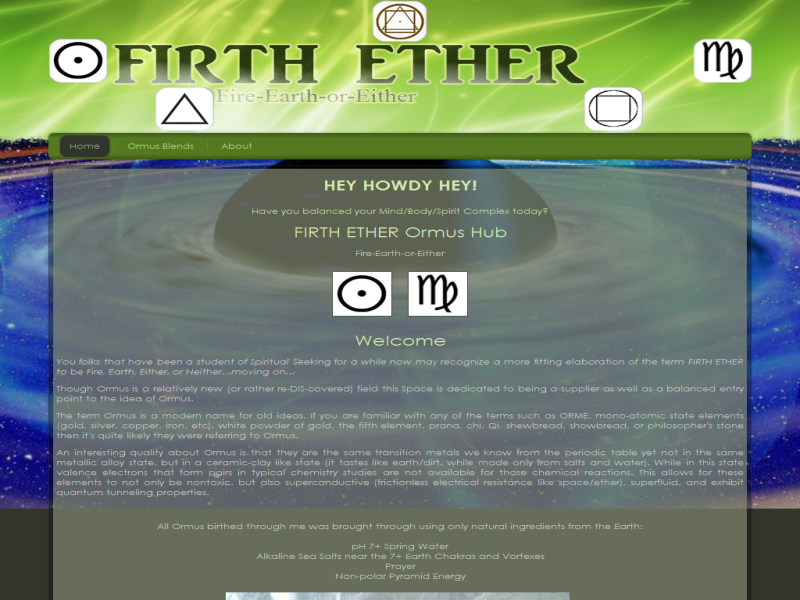
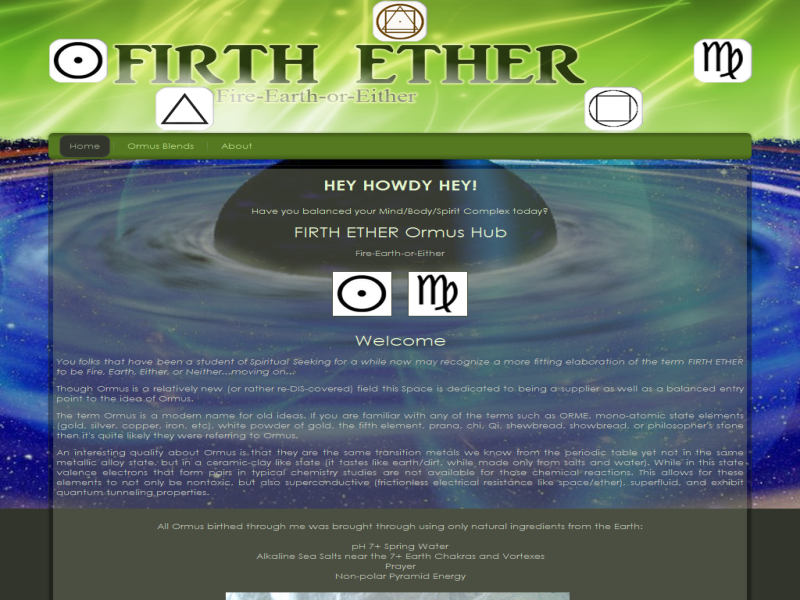
Consent sheet transparency

diff --git a/style.css b/style.css
@@ -103,26 +103,26 @@ ul.art-vmenu a
 {
    font-family: 'Century Gothic', Arial, 'Arial Unicode MS', Helvetica, Sans-Serif;
    text-decoration: none;
-   color: #D2EAAE;
+   color: #E2F1CB;
 }
 
 .art-postcontent a:visited, .art-postcontent a.visited
 {
    font-family: 'Century Gothic', Arial, 'Arial Unicode MS', Helvetica, Sans-Serif;
    text-decoration: none;
-   color: #CDD4C4;
+   color: #DFE3D9;
 }
 
 .art-postcontent  a:hover, .art-postcontent a.hover
 {
    font-family: 'Century Gothic', Arial, 'Arial Unicode MS', Helvetica, Sans-Serif;
    text-decoration: none;
-   color: #EFF8E3;
+   color: #FDFEFB;
 }
 
 .art-postcontent h1
 {
-   color: #D2EAAE;
+   color: #E2F1CB;
    font-size: 32px;
    font-family: 'Century Gothic', Arial, 'Arial Unicode MS', Helvetica, Sans-Serif;
 }
@@ -141,7 +141,7 @@ ul.art-vmenu a
 
 .art-postcontent h2
 {
-   color: #D2EAAE;
+   color: #E2F1CB;
    font-size: 24px;
    font-family: 'Century Gothic', Arial, 'Arial Unicode MS', Helvetica, Sans-Serif;
 }
@@ -160,7 +160,7 @@ ul.art-vmenu a
 
 .art-postcontent h3
 {
-   color: #CDD4C4;
+   color: #DFE3D9;
    font-size: 16px;
    font-family: 'Century Gothic', Arial, 'Arial Unicode MS', Helvetica, Sans-Serif;
 }
@@ -179,7 +179,7 @@ ul.art-vmenu a
 
 .art-postcontent h4
 {
-   color: #D4EBB2;
+   color: #CDE7A6;
    font-size: 16px;
    font-family: 'Century Gothic', Arial, 'Arial Unicode MS', Helvetica, Sans-Serif;
 }
@@ -198,7 +198,7 @@ ul.art-vmenu a
 
 .art-postcontent h5
 {
-   color: #D4EBB2;
+   color: #CDE7A6;
    font-size: 13px;
    font-family: 'Century Gothic', Arial, 'Arial Unicode MS', Helvetica, Sans-Serif;
 }
@@ -217,7 +217,7 @@ ul.art-vmenu a
 
 .art-postcontent h6
 {
-   color: #1F2C0C;
+   color: #C7E49A;
    font-size: 11px;
    font-family: 'Century Gothic', Arial, 'Arial Unicode MS', Helvetica, Sans-Serif;
 }
@@ -281,7 +281,7 @@ body
    padding: 0;
    margin:0;
    min-width: 900px;
-   color: #D0D3CA;
+   color: #C9CDC1;
 }
 
 .art-header:after, 
@@ -886,7 +886,7 @@ div.art-block img
 .art-blockheader .t a:visited, 
 .art-blockheader .t a:hover
 {
-   color: #C8CFBE;
+   color: #BEC7B3;
    font-size: 14px;
    font-family: 'Century Gothic', Arial, 'Arial Unicode MS', Helvetica, Sans-Serif;
    margin: 0 10px;
@@ -896,7 +896,7 @@ div.art-block img
 {
    padding:3px;
    margin:0 auto;
-   color: #D4EBB2;
+   color: #CDE7A6;
    font-size: 13px;
    font-family: 'Century Gothic', Arial, 'Arial Unicode MS', Helvetica, Sans-Serif;
 }
@@ -907,27 +907,27 @@ div.art-block img
 .art-blockcontent a:visited,
 .art-blockcontent a:hover
 {
-   color: #D4EBB2;
+   color: #CDE7A6;
    font-size: 13px;
    font-family: 'Century Gothic', Arial, 'Arial Unicode MS', Helvetica, Sans-Serif;
 }
 
 .art-blockcontent a, .art-blockcontent a:link
 {
-   color: #D2EAAE;
+   color: #E2F1CB;
    font-family: 'Century Gothic', Arial, 'Arial Unicode MS', Helvetica, Sans-Serif;
 }
 
 .art-blockcontent a:visited, .art-blockcontent a.visited
 {
-   color: #EEF0EA;
+   color: #FDFDFC;
    font-family: 'Century Gothic', Arial, 'Arial Unicode MS', Helvetica, Sans-Serif;
    text-decoration: none;
 }
 
 .art-blockcontent a:hover, .art-blockcontent a.hover
 {
-   color: #E2F1CB;
+   color: #EFF8E3;
    font-family: 'Century Gothic', Arial, 'Arial Unicode MS', Helvetica, Sans-Serif;
    text-decoration: none;
 }
@@ -954,7 +954,7 @@ div.art-block img
    font-size: 13px;
    font-family: 'Century Gothic', Arial, 'Arial Unicode MS', Helvetica, Sans-Serif;
    line-height: 125%;
-   color: #C9CDC1;
+   color: #BFC3B6;
 }
 
 .art-block ul>li, .art-block ol
@@ -1217,7 +1217,7 @@ label.art-checkbox
    font-style: normal;
    line-height: 16px;
    display: inline-block;
-   color: #D4EBB2 !important;
+   color: #CDE7A6 !important;
 }
 
 .art-checkbox>input[type="checkbox"]
@@ -1271,7 +1271,7 @@ label.art-radiobutton
    font-style: normal;
    line-height: 12px;
    display: inline-block;
-   color: #D4EBB2 !important;
+   color: #CDE7A6 !important;
 }
 
 .art-radiobutton>input[type="radio"]
@@ -1315,7 +1315,7 @@ label.art-radiobutton.hovered:before
 
 .art-comments h2
 {
-   color: #D0D3CA;
+   color: #C9CDC1;
 }
 
 .art-comment-inner
@@ -1348,7 +1348,7 @@ label.art-radiobutton.hovered:before
 .art-comment-content
 {
    padding:10px 0;
-   color: #D0D3CA;
+   color: #C9CDC1;
    font-family: 'Century Gothic', Arial, 'Arial Unicode MS', Helvetica, Sans-Serif;
 }
 
@@ -1364,7 +1364,7 @@ label.art-radiobutton.hovered:before
 
 .art-comment-header
 {
-   color: #D0D3CA;
+   color: #C9CDC1;
    font-family: 'Century Gothic', Arial, 'Arial Unicode MS', Helvetica, Sans-Serif;
    line-height: 100%;
 }
@@ -1383,19 +1383,19 @@ label.art-radiobutton.hovered:before
 .art-comment-header a, .art-comment-header a:link
 {
    font-family: 'Century Gothic', Arial, 'Arial Unicode MS', Helvetica, Sans-Serif;
-   color: #E6F3D3;
+   color: #E2F1CB;
 }
 
 .art-comment-header a:visited, .art-comment-header a.visited
 {
    font-family: 'Century Gothic', Arial, 'Arial Unicode MS', Helvetica, Sans-Serif;
-   color: #E4E7DF;
+   color: #DFE3D9;
 }
 
 .art-comment-header a:hover,  .art-comment-header a.hovered
 {
    font-family: 'Century Gothic', Arial, 'Arial Unicode MS', Helvetica, Sans-Serif;
-   color: #F6FBEF;
+   color: #F4FAEB;
 }
 
 .art-comment-content a, 
@@ -1411,19 +1411,19 @@ label.art-radiobutton.hovered:before
 .art-comment-content a, .art-comment-content a:link
 {
    font-family: 'Century Gothic', Arial, 'Arial Unicode MS', Helvetica, Sans-Serif;
-   color: #E6F3D3;
+   color: #E2F1CB;
 }
 
 .art-comment-content a:visited, .art-comment-content a.visited
 {
    font-family: 'Century Gothic', Arial, 'Arial Unicode MS', Helvetica, Sans-Serif;
-   color: #E4E7DF;
+   color: #DFE3D9;
 }
 
 .art-comment-content a:hover,  .art-comment-content a.hovered
 {
    font-family: 'Century Gothic', Arial, 'Arial Unicode MS', Helvetica, Sans-Serif;
-   color: #F6FBEF;
+   color: #F4FAEB;
 }
 
 .art-pager
@@ -1560,13 +1560,13 @@ label.art-radiobutton.hovered:before
    padding:10px;
    margin:0 auto;
    margin-top:25px;
-   color: #D0D3CA;
+   color: #C9CDC1;
 }
 
 .art-commentsform h2{
    padding-bottom:10px;
    margin: 0;
-   color: #D0D3CA;
+   color: #C9CDC1;
 }
 
 .art-commentsform label {
@@ -1589,7 +1589,7 @@ label.art-radiobutton.hovered:before
 .art-post
 {
    background: #899178;
-   background: rgba(137, 145, 120, 0.67);
+   background: rgba(137, 145, 120, 0.4);
    -webkit-border-radius:6px;
    -moz-border-radius:6px;
    border-radius:6px;
@@ -1701,7 +1701,7 @@ pre
 
 .art-postheader
 {
-   color: #E4F2CF;
+   color: #E2F1CB;
    margin: 10px 0 0;
    font-size: 24px;
    font-family: 'Century Gothic', Arial, 'Arial Unicode MS', Helvetica, Sans-Serif;
@@ -1723,7 +1723,7 @@ pre
    font-family: 'Century Gothic', Arial, 'Arial Unicode MS', Helvetica, Sans-Serif;
    text-decoration: none;
    text-align: left;
-   color: #DDEFC3;
+   color: #D9EDBB;
 }
 
 .art-postheader a:visited, .art-postheader a.visited
@@ -1731,7 +1731,7 @@ pre
    font-family: 'Century Gothic', Arial, 'Arial Unicode MS', Helvetica, Sans-Serif;
    text-decoration: none;
    text-align: left;
-   color: #DADED3;
+   color: #D5DACD;
 }
 
 .art-postheader a:hover,  .art-postheader a.hovered
@@ -1739,7 +1739,7 @@ pre
    font-family: 'Century Gothic', Arial, 'Arial Unicode MS', Helvetica, Sans-Serif;
    text-decoration: none;
    text-align: left;
-   color: #FAFDF7;
+   color: #F6FBEF;
 }
 
 .art-postheadericons,
@@ -1749,7 +1749,7 @@ pre
 .art-postheadericons a:hover
 {
    font-family: 'Century Gothic', Arial, 'Arial Unicode MS', Helvetica, Sans-Serif;
-   color: #EBEDE9;
+   color: #E9EAE6;
 }
 
 .art-postheadericons
@@ -1762,7 +1762,7 @@ pre
 {
    font-family: 'Century Gothic', Arial, 'Arial Unicode MS', Helvetica, Sans-Serif;
    text-decoration: none;
-   color: #C7E49A;
+   color: #D6ECB6;
 }
 
 .art-postheadericons a:visited, .art-postheadericons a.visited
@@ -1771,7 +1771,7 @@ pre
    font-weight: normal;
    font-style: italic;
    text-decoration: none;
-   color: #C7E49A;
+   color: #D6ECB6;
 }
 
 .art-postheadericons a:hover, .art-postheadericons a.hover
@@ -1780,7 +1780,7 @@ pre
    font-weight: normal;
    font-style: italic;
    text-decoration: underline;
-   color: #10110E;
+   color: #B5BAAB;
 }
 
 .art-postdateicon:before
@@ -1872,7 +1872,7 @@ pre
 {
    font-size: 13px;
    font-family: 'Century Gothic', Arial, 'Arial Unicode MS', Helvetica, Sans-Serif;
-   color: #D0D3CA;
+   color: #C9CDC1;
    margin: 0 0 0 26px;
 }
 
